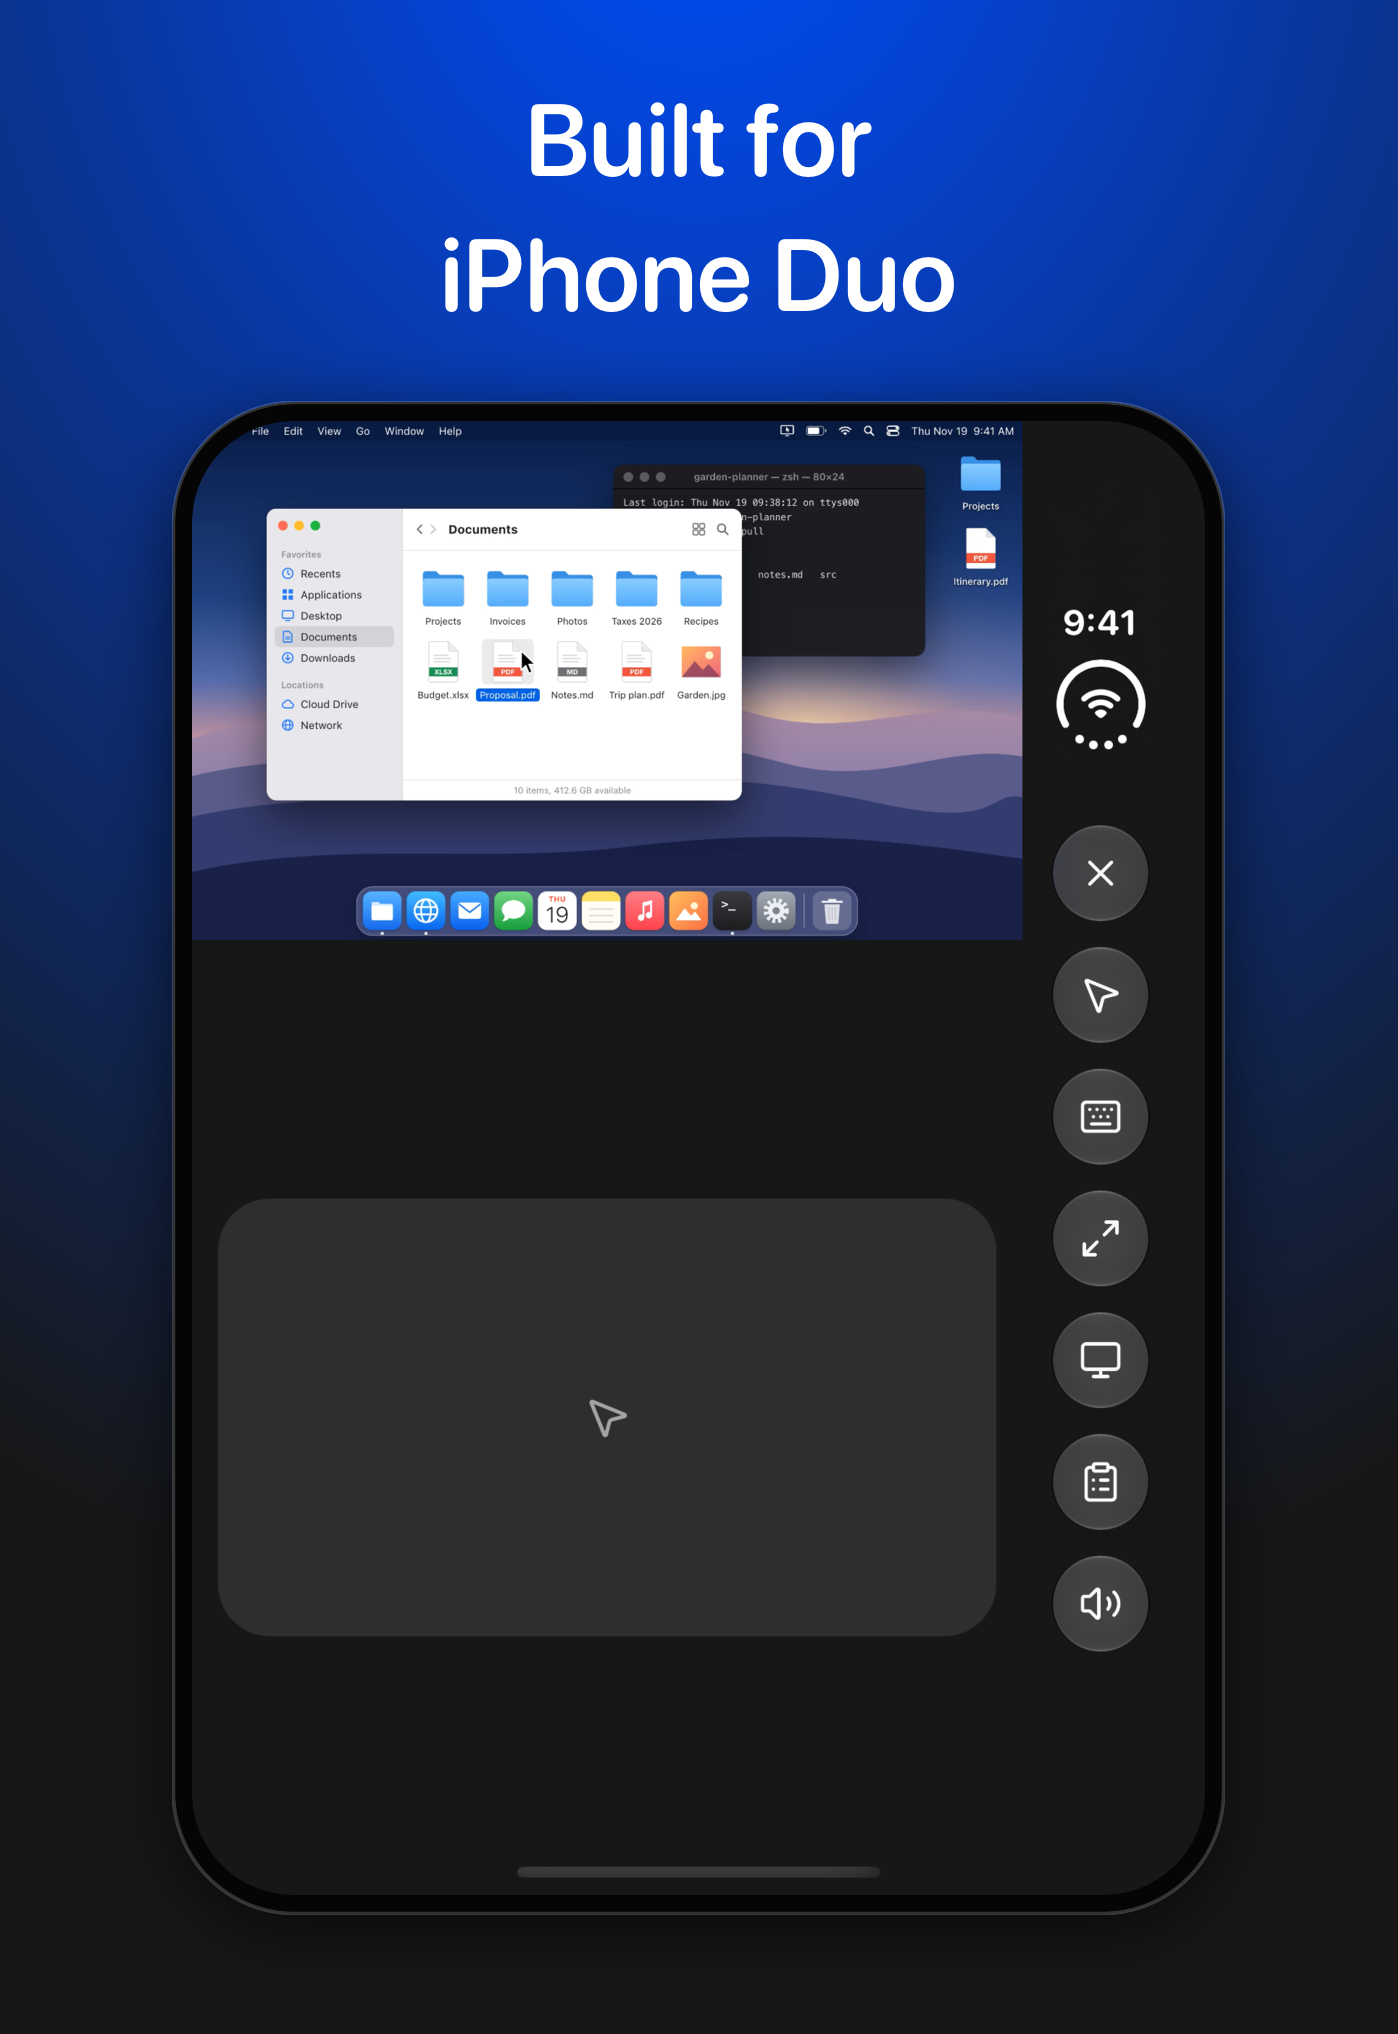
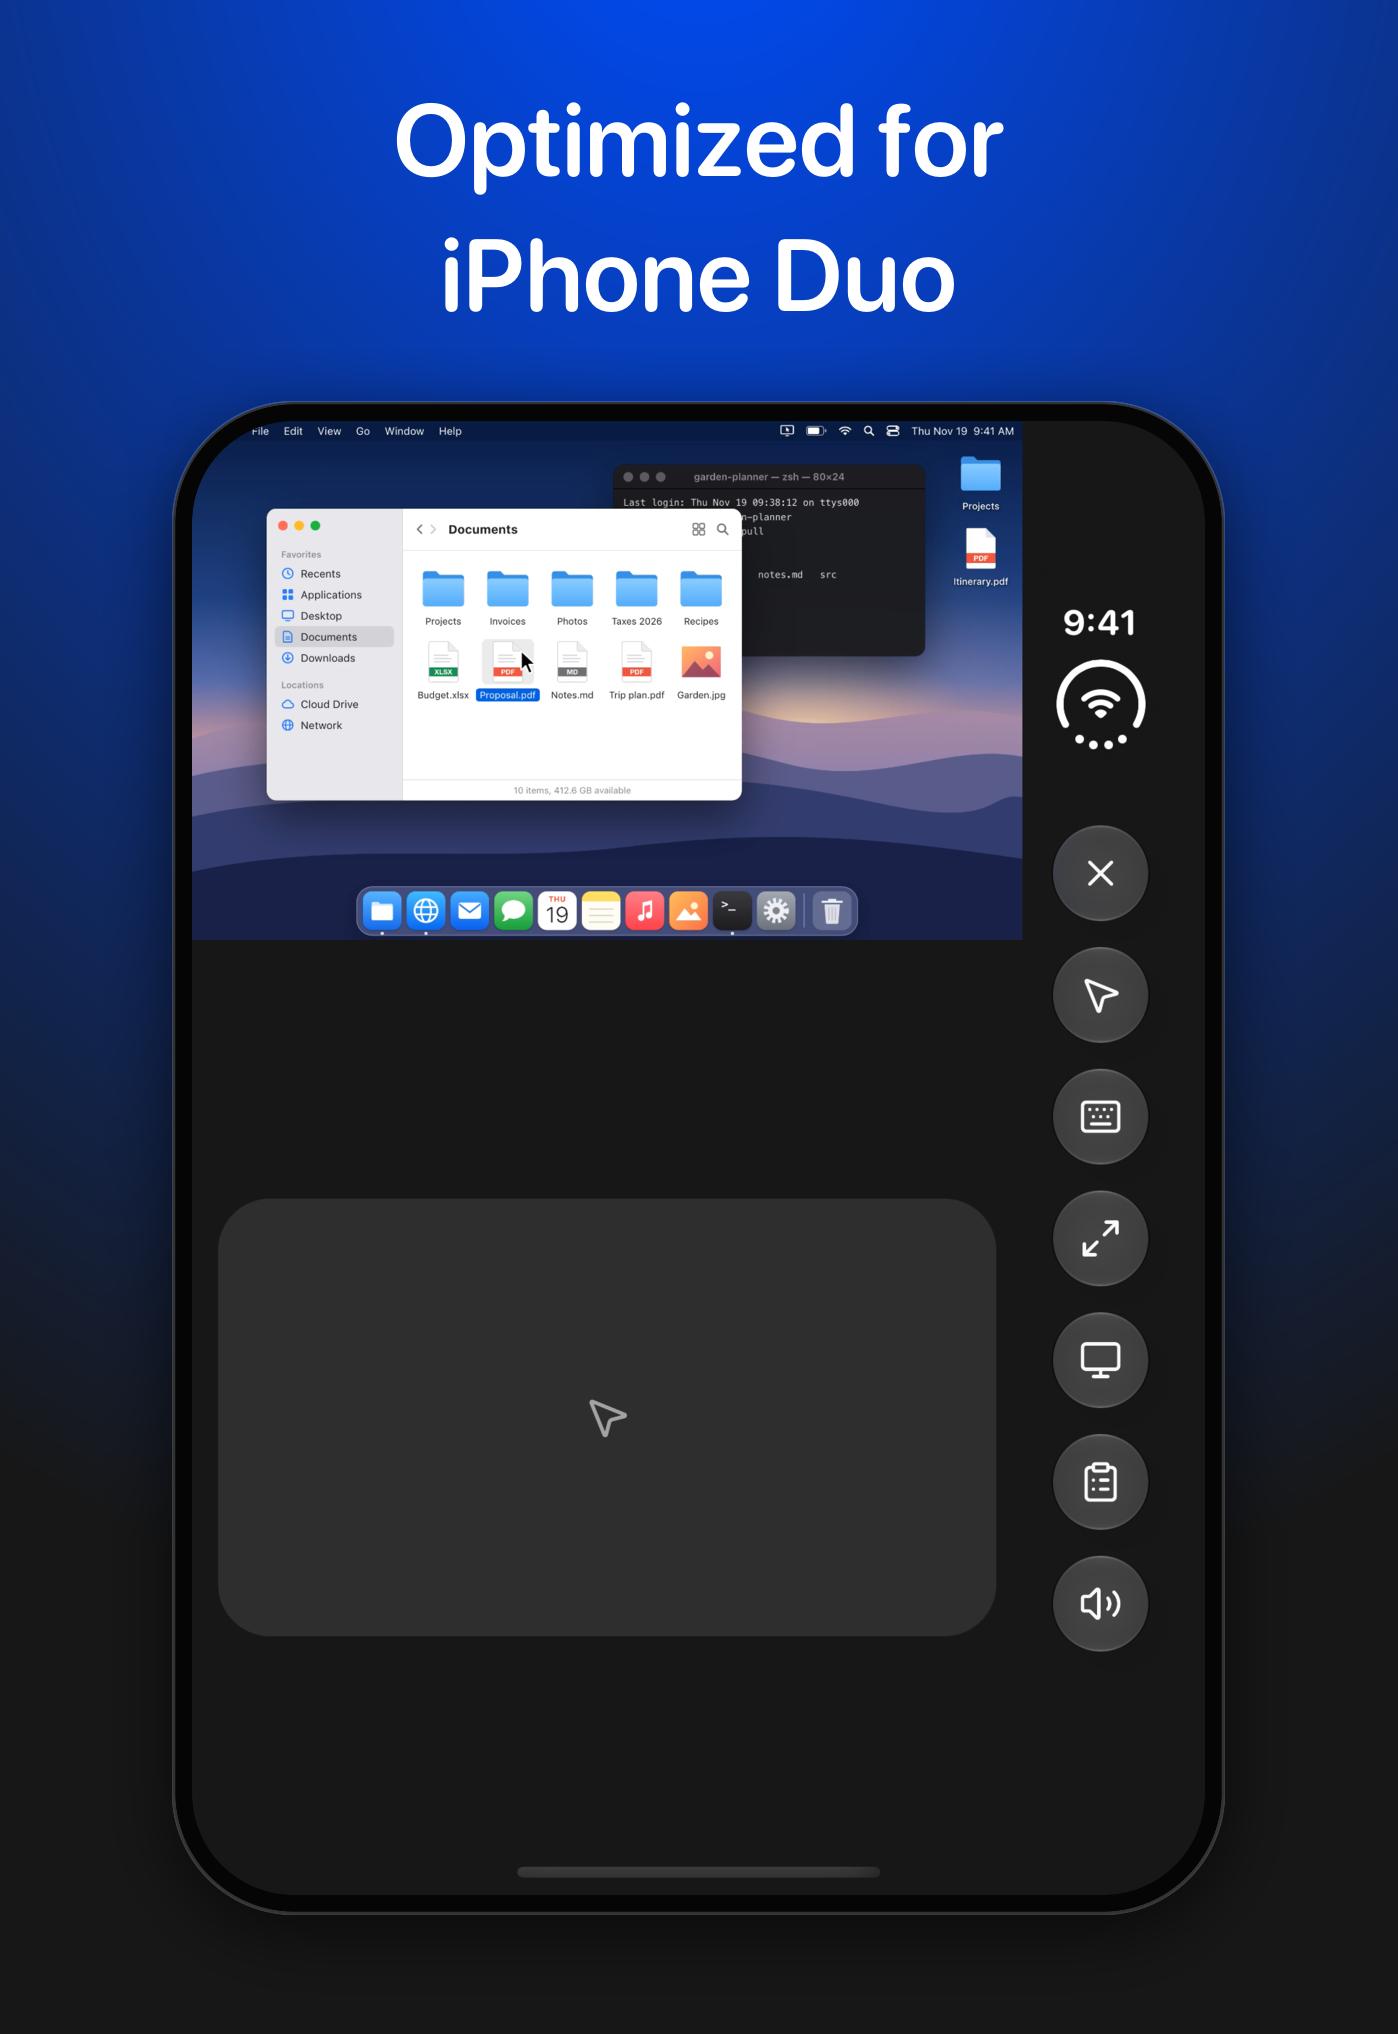
Say the phone app is optimized for the iPhone Duo in the store listing
The description and the Duo screenshot caption say optimized for iPhone Duo instead of made or built for it. They go live with the next App Store version.

Changed region(s): [[0.2768, 0.031, 0.7074, 0.0929]]

diff --git a/mobile/screenshots/README.md b/mobile/screenshots/README.md
@@ -53,7 +53,7 @@ capture's own size. Slides and captions live in `SETS` in `scripts/frame-screens
 | `framed/iphone-6.9/03-home.png` | `iphone-6.9/02-home.png` | Your computers, one tap away |
 | `framed/iphone-6.9/04-pair.png` | `iphone-6.9/03-pair.png` | Pair once with a code |
 | `framed/iphone-6.9/05-settings.png` | `iphone-6.9/04-settings.png` | Trackpad or touch, your choice |
-| `framed/iphone-duo/01-folded.png` | `iphone-duo-cover/01-session.png` | Built for iPhone Duo |
+| `framed/iphone-duo/01-folded.png` | `iphone-duo-cover/01-session.png` | Optimized for iPhone Duo |
 | `framed/iphone-duo/02-open.png` | `iphone-duo-open/01-session.png` | Unfold for the whole screen |
 | `framed/iphone-duo/03-laptop.png` | `iphone-duo-half/01-session.png` | Half open, it's a laptop |
 
